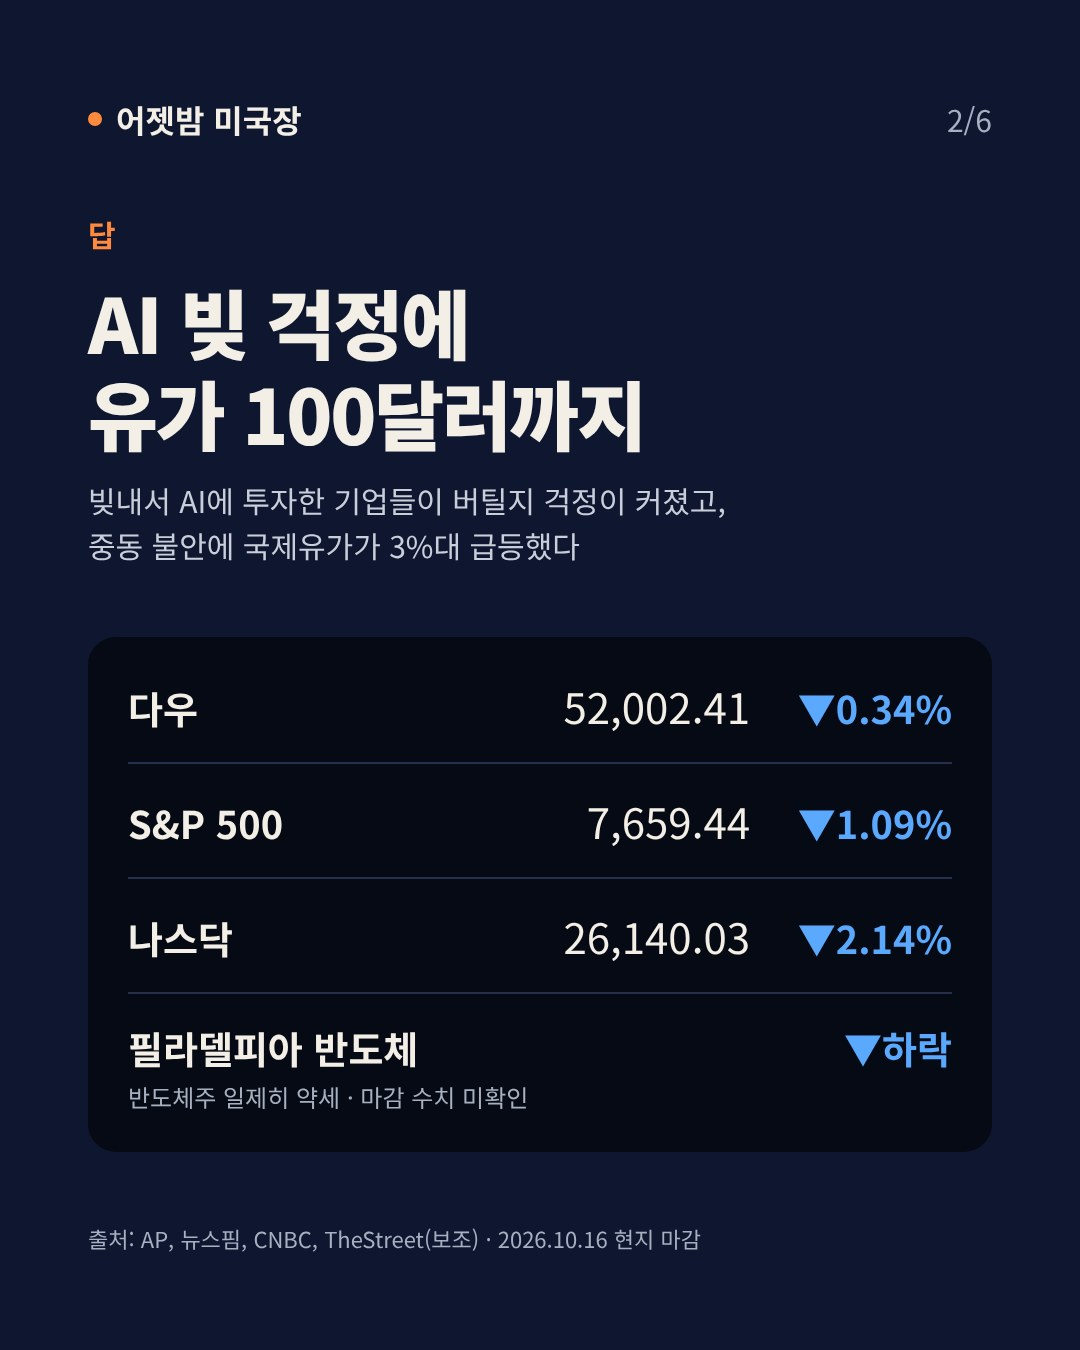
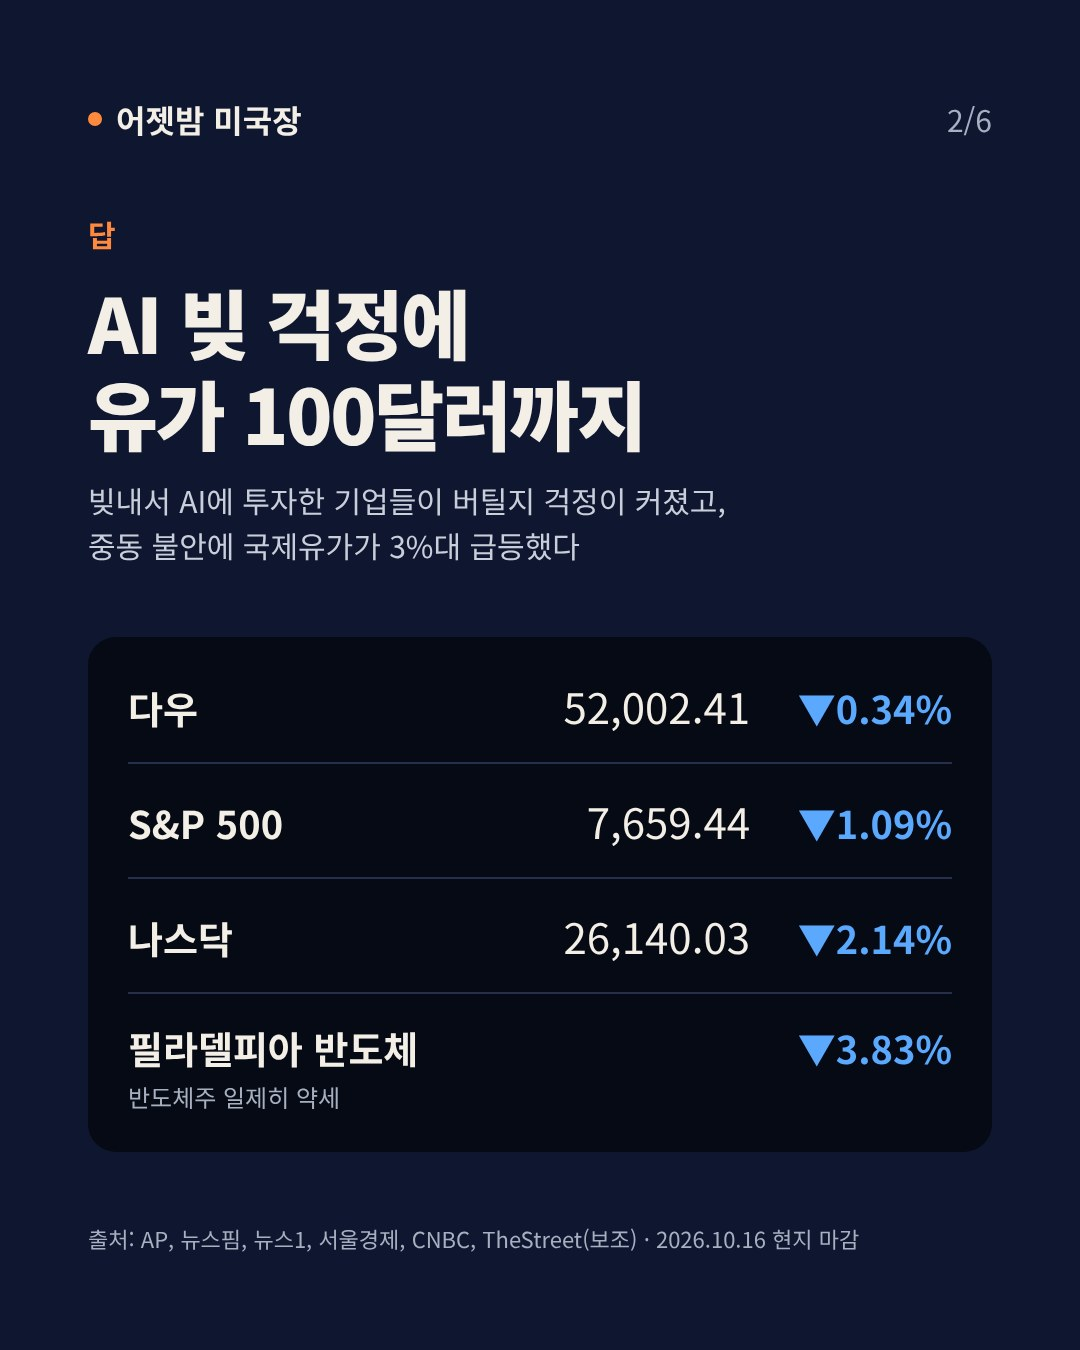
post: 2026-10-17
Claude-Session: https://claude.ai/code/session_01NVcXqoEUFxpkZCaBXcTr5u

diff --git a/posts/2026-10-17/src/2.html b/posts/2026-10-17/src/2.html
@@ -20,9 +20,9 @@
 <div style="display: flex; justify-content: space-between; align-items: baseline; border-bottom: 2px solid #26304D; padding: 26px 0"><div style="font-size: 38px; font-weight: 700">다우</div><div style="display: flex; gap: 32px; align-items: baseline"><div style="font-size: 42px">52,002.41</div><div style="width: 170px; text-align: right; font-size: 38px; font-weight: 700; color: #5AA9FF">▼0.34%</div></div></div>
 <div style="display: flex; justify-content: space-between; align-items: baseline; border-bottom: 2px solid #26304D; padding: 26px 0"><div style="font-size: 38px; font-weight: 700">S&amp;P 500</div><div style="display: flex; gap: 32px; align-items: baseline"><div style="font-size: 42px">7,659.44</div><div style="width: 170px; text-align: right; font-size: 38px; font-weight: 700; color: #5AA9FF">▼1.09%</div></div></div>
 <div style="display: flex; justify-content: space-between; align-items: baseline; border-bottom: 2px solid #26304D; padding: 26px 0"><div style="font-size: 38px; font-weight: 700">나스닥</div><div style="display: flex; gap: 32px; align-items: baseline"><div style="font-size: 42px">26,140.03</div><div style="width: 170px; text-align: right; font-size: 38px; font-weight: 700; color: #5AA9FF">▼2.14%</div></div></div>
-<div style="display: flex; justify-content: space-between; align-items: baseline; padding: 26px 0"><div style="display: flex; flex-direction: column; gap: 4px"><div style="font-size: 38px; font-weight: 700">필라델피아 반도체</div><div style="font-size: 24px; color: #A7B0C0">반도체주 일제히 약세 · 마감 수치 미확인</div></div><div style="width: 170px; text-align: right; font-size: 38px; font-weight: 700; color: #5AA9FF">▼하락</div></div>
+<div style="display: flex; justify-content: space-between; align-items: baseline; padding: 26px 0"><div style="display: flex; flex-direction: column; gap: 4px"><div style="font-size: 38px; font-weight: 700">필라델피아 반도체</div><div style="font-size: 24px; color: #A7B0C0">반도체주 일제히 약세</div></div><div style="width: 170px; text-align: right; font-size: 38px; font-weight: 700; color: #5AA9FF">▼3.83%</div></div>
 </div>
-<div style="font-size: 22px; color: #A7B0C0">출처: AP, 뉴스핌, CNBC, TheStreet(보조) · 2026.10.16 현지 마감</div>
+<div style="font-size: 22px; color: #A7B0C0">출처: AP, 뉴스핌, 뉴스1, 서울경제, CNBC, TheStreet(보조) · 2026.10.16 현지 마감</div>
 </div>
 </body>
 </html>

diff --git a/posts/2026-10-17/sources.md b/posts/2026-10-17/sources.md
@@ -4,8 +4,8 @@
 |---|---|---|
 | 다우 (10/16 현지 마감) | 52,002.41 ▼175.28 (▼0.34%) | 뉴스핌 마감 기사(종가·포인트·%), TheStreet 마감 정리(52,002.41·-0.34%, 보조), AP 마감(▼0.3%) · 검산: 52,177.69(전일)−175.28=52,002.41, 0.336% |
 | S&P 500 | 7,659.44 ▼84.62 (▼1.09%) | 뉴스핌, TheStreet(보조), AP(▼1.1%) · 검산: 7,744.06−84.62=7,659.44, 1.093% |
-| 나스닥 | 26,140.03 (▼2.14%) | 뉴스핌(▼572.99, 2.14%), TheStreet(26,140.03·-2.14%, 보조), AP(▼2.1%), CNBC 제목(2% 하락) · 검산: 572.99/26,713.02=2.1450% — 일부 매체(블록미디어·글로벌이코노믹)는 2.15%로 반올림. 포인트는 카드에 미기재 |
-| 필라델피아 반도체 | 하락 (마감 수치 미기재) | AP(반도체주 추가 하락, 마이크론·인텔 급락), 뉴스핌(▼3.83%) — 수치는 허용 출처 1곳뿐이라 '하락'만 표기 |
+| 나스닥 | 26,140.03 (▼2.14%) | 뉴스핌(▼572.99, 2.14%), 뉴스1 뉴욕마감(제목 2.14%), 서울경제(26,140.03, 단 2.15%로 표기), TheStreet(26,140.03·-2.14%, 보조), AP(▼2.1%), CNBC 제목(2% 하락) · 검산: 572.99/26,713.02=2.1450% — 일부 매체(블록미디어·글로벌이코노믹)는 2.15%로 반올림. 포인트는 카드에 미기재 |
+| 필라델피아 반도체 | ▼3.83% (종가 미기재) | 뉴스핌(▼3.83%), 서울경제 데일리국제금융(▼3.83%), AP(반도체주 추가 하락) — 06:35 서울경제 확인 후 카드 갱신 |
 | 하락 원인: AI 기업 부채(빚) 걱정 | — | AP(빚에 의존한 AI 투자 기업이 금리 상승 속 계속 빌리기 어려울 수 있다는 우려), 뉴스핌(AI 인프라 기업 부채 상환 우려, 코어위브 급락), CNBC 제목(AI sell-off) |
 | 하락 원인: 유가 급등 | — | CNBC 제목(AI sell-off and oil prices), 뉴스핌(유가), AP(유가 상승) |
 | 코어위브 등 AI·반도체주 급락 | 수치 미기재 | 뉴스핌(코어위브 ▼11.91%), TheStreet(코어위브 급락, 보조) |
@@ -27,7 +27,7 @@
 | 다음 FOMC | 10월 27~28일 | 뉴스핌(전일 확인), 서울경제(전일 확인) |
 
 ## 뺀 수치·표현
-- 필라델피아 반도체지수 등락률(뉴스핌 ▼3.83%)·연속 하락 일수: 허용 출처 2곳 일치 확인 실패(연속 일수는 매체마다 8·9거래일로 엇갈림) → '하락'만 표기.
+- 필라델피아 반도체지수 종가·연속 하락 일수: 종가 미확인, 연속 일수는 매체마다 8·9거래일로 엇갈려 제외.
 - 나스닥 '7월 이후 최대 하루 낙폭': 뉴스핌 1곳 → 제외.
 - 12월 금리 인상 확률 74.3%: AP 1곳 → 제외.
 - 마이크론(▼5.6%)·인텔(▼5.8%)·테슬라·넷플릭스 등락률: 출처 간 엇갈림 또는 1곳 → 제외.
@@ -37,6 +37,8 @@
 - 우크라이나 관련 유가 요인: SBS 1곳 → 제외.
 
 ## URL
+- https://m.sedaily.com/article/20102740 (서울경제 데일리국제금융 — 지수·반도체지수·유가)
+- https://www.news1.kr/world/usa-canada/6323100 (뉴스1 뉴욕마감)
 - https://www.newspim.com/news/view/20261017000011 (뉴스핌 뉴욕증시 마감)
 - https://www.bnnbloomberg.ca/markets/dow-jones/2026/10/16/us-markets-weighed-down-by-extended-sell-off-in-the-tech-sector/ (AP 마감 기사 전재)
 - https://www.cnbc.com/2026/10/15/stock-market-today-live-updates.html (CNBC, 제목 "Nasdaq slides 2% Friday to post worst week since June, pressured by AI sell-off and oil prices")
